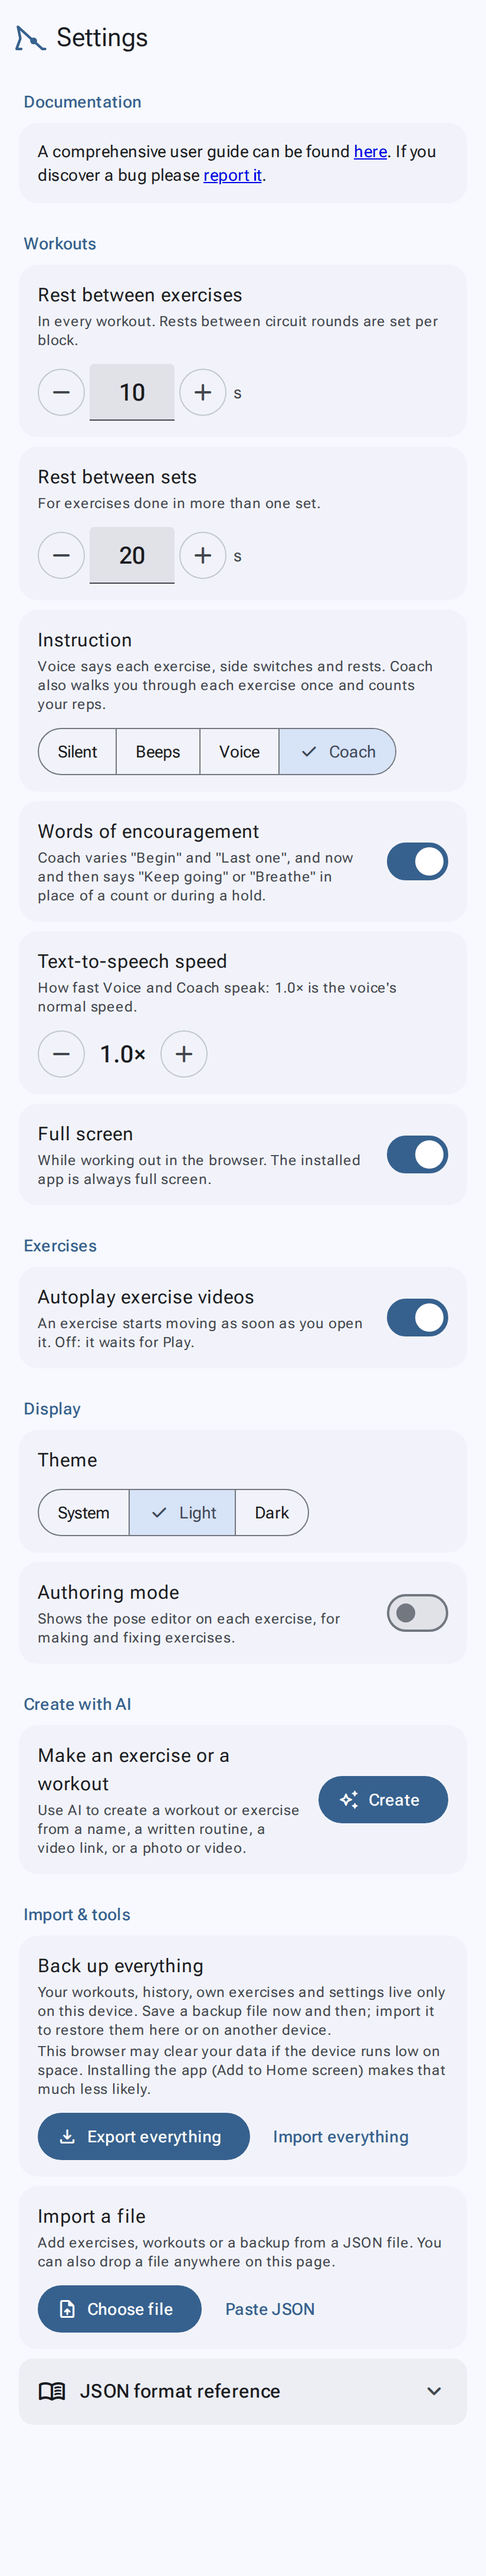
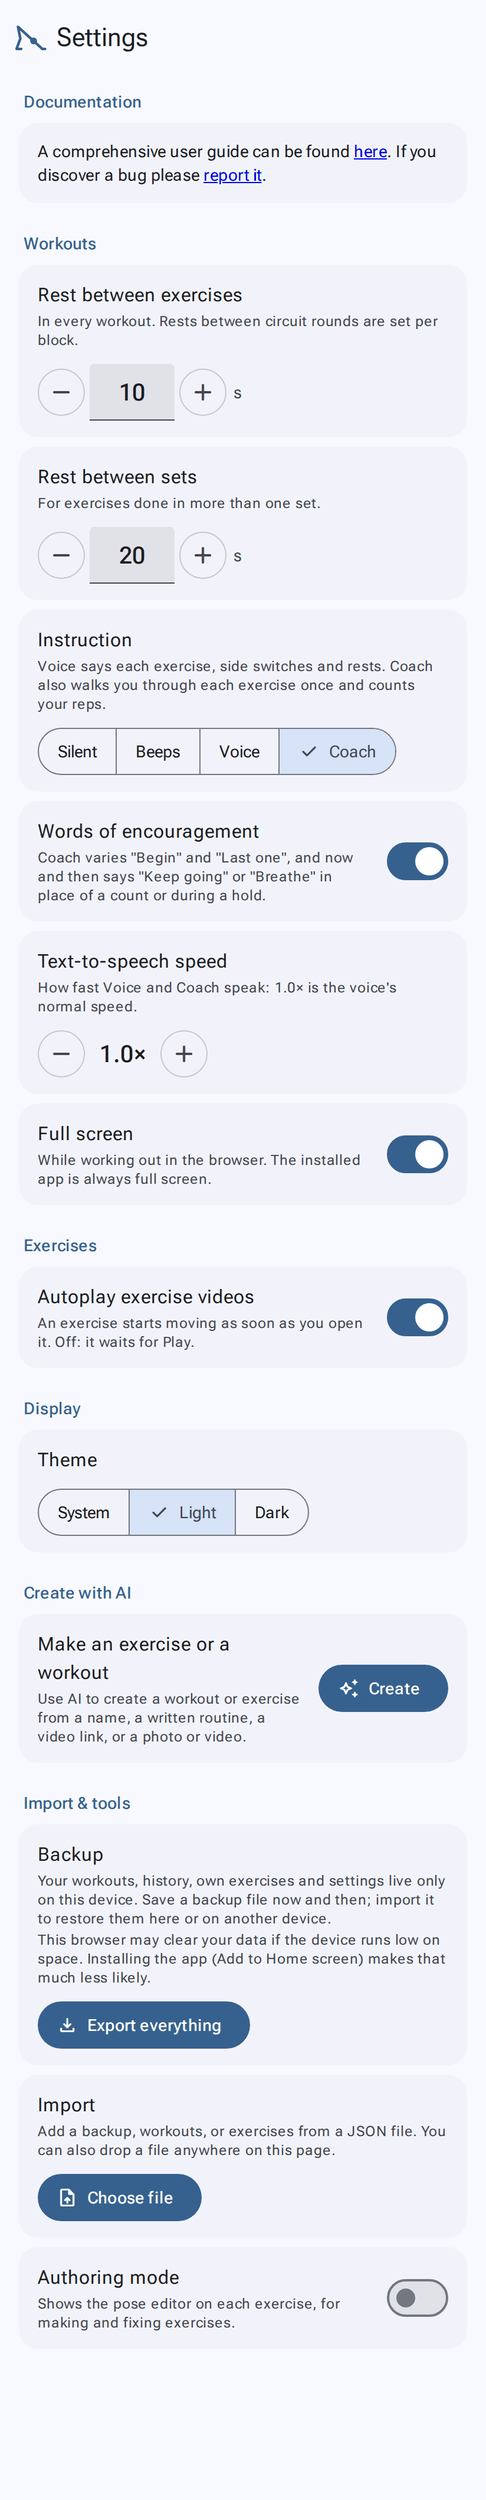
Triage: the stability ball stands on the floor; Settings Import & tools tidied
- The ball is drawn down to the floor line (7 below the floor the body rests on, for the feet's thickness), its top
  still where the body rests on it; it hovered 7 px.
- Settings: Backup (Export everything), Import (Choose file: a backup, workouts, or exercises); Import everything
  and Paste JSON removed (the paste dialog with them); Authoring mode moved from Display to Import & tools, above
  the JSON format reference, which now shows only in Authoring mode.
- e2e: settings_tools.py; balls_ring checks the ball on the floor. Wiki, HANDOFF, screenshots.

Claude-Session: https://claude.ai/code/session_0133kyx5MPf8aRU2sQwm2BG7

diff --git a/src/body.html b/src/body.html
@@ -74,8 +74,6 @@
         <h2 class="title-small settings-title" id="setDisplayTitle">Display</h2>
         <div class="setting"><span class="txt"><span class="body-large">Theme</span></span>
           <div class="segmented" id="setTheme" role="group" aria-label="Theme"></div></div>
-        <label class="setting"><span class="txt"><span class="body-large">Authoring mode</span><span class="body-small muted">Shows the pose editor on each exercise, for making and fixing exercises.</span></span>
-          <input type="checkbox" class="switch" id="setAuthoring"></label>
       </section>
       <section class="settings-group" aria-labelledby="setAiTitle">
         <h2 class="title-small settings-title" id="setAiTitle">Create with AI</h2>
@@ -84,16 +82,16 @@
       </section>
       <section class="settings-group" aria-labelledby="setToolsTitle">
         <h2 class="title-small settings-title" id="setToolsTitle">Import &amp; tools</h2>
-        <div class="setting"><span class="txt"><span class="body-large">Back up everything</span><span class="body-small muted">Your workouts, history, own exercises and settings live only on this device. Save a backup file now and then; import it to restore them here or on another device.</span>
+        <div class="setting"><span class="txt"><span class="body-large">Backup</span><span class="body-small muted">Your workouts, history, own exercises and settings live only on this device. Save a backup file now and then; import it to restore them here or on another device.</span>
             <span class="body-small muted" id="persistNote"></span></span>
-          <span class="row"><button class="btn filled stateful" data-act="backup"><span class="icon">download</span>Export everything</button>
-            <button class="btn text stateful" data-act="import">Import everything</button></span></div>
-        <div class="setting"><span class="txt"><span class="body-large">Import a file</span><span class="body-small muted">Add exercises, workouts or a backup from a JSON file. You can also drop a file anywhere on this page.</span></span>
-          <span class="row"><button class="btn filled stateful" data-act="import"><span class="icon">upload_file</span>Choose file</button>
-            <button class="btn text stateful" data-act="paste">Paste JSON</button></span></div>
+          <button class="btn filled stateful" data-act="backup"><span class="icon">download</span>Export everything</button></div>
+        <div class="setting"><span class="txt"><span class="body-large">Import</span><span class="body-small muted">Add a backup, workouts, or exercises from a JSON file. You can also drop a file anywhere on this page.</span></span>
+          <button class="btn filled stateful" data-act="import"><span class="icon">upload_file</span>Choose file</button></div>
         <div class="setting authoring-only"><span class="txt"><span class="body-large">Export your exercises</span><span class="body-small muted">The JSON for everything in My exercises, to share it or edit it elsewhere.</span></span>
           <button class="btn tonal stateful" data-act="exportAll"><span class="icon">data_object</span>Show JSON</button></div>
-        <details class="card format-card"><summary class="stateful"><span class="icon">menu_book</span><span class="title-medium">JSON format reference</span><span class="icon chev">expand_more</span></summary>
+        <label class="setting"><span class="txt"><span class="body-large">Authoring mode</span><span class="body-small muted">Shows the pose editor on each exercise, for making and fixing exercises.</span></span>
+          <input type="checkbox" class="switch" id="setAuthoring"></label>
+        <details class="card format-card authoring-only"><summary class="stateful"><span class="icon">menu_book</span><span class="title-medium">JSON format reference</span><span class="icon chev">expand_more</span></summary>
           <div class="body body-small" id="formatRef"></div></details>
       </section>
     </section>
@@ -246,11 +244,6 @@
   </nav>
 </div>
 
-<dialog id="pasteDialog" aria-labelledby="pasteTitle">
-  <h2 class="headline-small" id="pasteTitle">Paste JSON</h2>
-  <textarea id="pasteArea" spellcheck="false" placeholder='{ "version": 2, "id": "u-my-exercise", "name": "...", "keyframes": [ ... ] }'></textarea>
-  <div class="actions"><button class="btn text stateful" data-close>Cancel</button><button class="btn filled stateful" id="pasteImport">Import</button></div>
-</dialog>
 <dialog id="jsonDialog" aria-labelledby="jsonTitle">
   <h2 class="headline-small" id="jsonTitle">JSON</h2>
   <textarea id="jsonArea" spellcheck="false" readonly></textarea>

diff --git a/src/app/5-main.js b/src/app/5-main.js
@@ -446,11 +446,6 @@ $('#search').addEventListener('input', e => { E.q = e.target.value; renderExplor
 $('#groupColl').addEventListener('change', e => { setPref(GROUP_KEY, e.target.checked ? 'on' : 'off'); renderExplore(); });
 $('#clearSearch').addEventListener('click', () => { E.q = ''; $('#search').value = ''; renderExplore(); $('#search').focus(); });
 $('#fileInput').addEventListener('change', e => { importFiles([...e.target.files]); e.target.value = ''; });
-$('#pasteImport').addEventListener('click', () => {
-  const text = $('#pasteArea').value.trim();
-  if (!text) { snack('Paste some JSON first.'); return; }
-  if (importAndShow([[text, '']])) $('#pasteDialog').close();
-});
 document.querySelectorAll('dialog [data-close]').forEach(b => b.addEventListener('click', () => b.closest('dialog').close()));
 $('#copyJson').addEventListener('click', () => copyText($('#jsonArea').value, 'Copied'));
 // one click handler for everything inside the app
@@ -465,7 +460,6 @@ document.querySelector('.shell').addEventListener('click', e => {
   else if (d.del) removeSaved(d.del);
   else if (d.act === 'clearFilters') { Object.assign(E, { coll: 'All', type: 'All', equip: 'Any', q: '' }); $('#search').value = ''; renderExplore(); }
   else if (d.act === 'import') $('#fileInput').click();
-  else if (d.act === 'paste') { $('#pasteArea').value = ''; $('#pasteDialog').showModal(); }
   else if (d.act === 'exportAll') showJson('Your exercises', JSON.stringify({ format: 'nstructr/exercise', version: FILE_VERSION, exercises: S.lib.items }, null, 2));
   else if (d.act === 'edPrev' || d.act === 'edNext') { setPlaying(false); jumpTo(S.idx + (d.act === 'edNext' ? 1 : -1)); }
   else if (d.act === 'edRevertStep') revertStep();

diff --git a/src/core.js b/src/core.js
@@ -190,7 +190,9 @@ function chairGrip() {
 function surfaceShapes(sup, yaw) {
   const s = Math.sin(yaw * D2R), c = Math.cos(yaw * D2R), sx = (x, z) => CX + z * s - x * c;
   return (sup || []).map(k => {
-    if (k.type === 'ball') { const c = sx(k.cx, k.cz), cy = FLOOR - k.r, r = k.r;
+    // (the floor line is drawn 7 below the floor the body rests on, for the feet's thickness: the ball reaches it, its top
+    // where the body rests on it)
+    if (k.type === 'ball') { const c = sx(k.cx, k.cz), r = k.r + 3.5, cy = FLOOR + 7 - r;
       return { solid: true, ball: true, d: `M${c - r} ${cy}a${r} ${r} 0 1 0 ${2 * r} 0a${r} ${r} 0 1 0 ${-2 * r} 0Z`, x0: c - r, x1: c + r }; }
     const xs = [sx(k.x0, k.z0), sx(k.x1, k.z0), sx(k.x0, k.z1), sx(k.x1, k.z1)];
     const a = Math.min(...xs), b = Math.max(...xs), top = FLOOR - k.h, f = FLOOR + 7;

diff --git a/tools/e2e/settings_tools.py b/tools/e2e/settings_tools.py
@@ -1,0 +1,21 @@
+import asyncio, os
+# point at a served build, e.g.  python3 -m http.server 8000 -d _site
+URL = os.environ.get('NSTRUCTR_URL', 'http://localhost:8000/nstructr.html')
+from playwright.async_api import async_playwright
+# Settings > Import & tools: Backup (Export everything), Import (Choose file: a backup, workouts, or exercises), then
+# Authoring mode; with it on, Export your exercises and the JSON format reference show, off they're hidden.
+ROWS = "[...document.querySelectorAll('#view-settings section[aria-labelledby=setToolsTitle] > *')].filter(x => x.offsetParent !== null).map(x => (x.querySelector('.body-large, .title-medium, h2') || x).textContent.trim())"
+async def main():
+    async with async_playwright() as p:
+        b = await p.chromium.launch(); errs = []
+        pg = await b.new_page(viewport={'width': 360, 'height': 800}); pg.on('pageerror', lambda e: errs.append(str(e)))
+        await pg.goto(URL + '#/settings', wait_until='domcontentloaded'); await pg.wait_for_timeout(500)
+        print('authoring off           ', await pg.evaluate(ROWS))
+        print('buttons                 ', await pg.evaluate("[...document.querySelectorAll('#view-settings section[aria-labelledby=setToolsTitle] button')].filter(x => x.offsetParent !== null).map(x => x.textContent.replace(/^(download|upload_file|data_object)/, ''))"))
+        print('import text             ', await pg.evaluate("[...document.querySelectorAll('#view-settings .body-large')].find(x => x.textContent === 'Import').nextElementSibling.textContent"))
+        await pg.evaluate("$('#setAuthoring').click()")
+        await pg.wait_for_timeout(200)
+        print('authoring on            ', await pg.evaluate(ROWS))
+        print('Display has no authoring', await pg.evaluate("!document.querySelector('section[aria-labelledby=setDisplayTitle] #setAuthoring')"))
+        print('errors', errs); await b.close()
+asyncio.run(main())

diff --git a/tools/e2e/balls_ring.py b/tools/e2e/balls_ring.py
@@ -19,5 +19,8 @@ async def main():
         for id, pt, i in [('ball-seated-march', 'pelvis', 0), ('ball-bridge', 'ankleL', 0), ('ball-bridge', 'ankleL', 1)]:
             await pg.goto(URL + '#/play/' + id, wait_until='domcontentloaded'); await pg.wait_for_timeout(400)
             print(f'{id:22} step {i} {pt} to the ball', await pg.evaluate(f"(() => {{ const r = S.resolved[{i}]; SUPPORTS = S.resolved.supports; const P = fkAt(r.pose, S.seg, place(r.pose, S.seg, r.rule)); return Math.round(P.{pt}.y - supportAt(P.{pt})); }})()"), 'px')
+        # the ball stands on the floor line (drawn 7 below where the body rests), its top where the body rests on it
+        await pg.goto(URL + '#/play/ball-seated-march', wait_until='domcontentloaded'); await pg.wait_for_timeout(400)
+        print('ball bottom, top         ', await pg.evaluate("(() => { const r = $('#scene .surface.ball').getBBox(), f = +$('#scene .floor-line').getAttribute('y1'); return [Math.round(r.y + r.height - f), Math.round(FLOOR - r.y)]; })()"), '<- [0, 2r = 96]')
         print('errors', errs); await b.close()
 asyncio.run(main())

diff --git a/wiki/Settings.md b/wiki/Settings.md
@@ -48,17 +48,15 @@ phone is set to reduce motion, exercises wait for Play either way.)
 ### Theme
 **System** (follows your phone), **Light** or **Dark**.
 
-### Authoring mode
-Adds the pose editor and JSON views, for making and fixing exercises. See
-[Editing exercises](Editing-exercises.md#changing-the-poses-authoring-mode).
-
 ## Create with AI
 
 **Create** opens [Create with AI](Create-with-AI.md). The AI app is chosen there, and remembered.
 
 ## Import & tools
 
-- **Back up everything**: Export everything / Import everything. See [Backups](Sharing-and-backups.md#back-up-everything).
-- **Import a file**: Choose file / Paste JSON.
+- **Backup**: Export everything. See [Backups](Sharing-and-backups.md#back-up-everything).
+- **Import**: Choose file: a backup, workouts, or exercises (a backup restores everything).
 - **Export your exercises** (Authoring mode): the JSON of everything in My exercises.
-- **JSON format reference**: the file formats, for people writing exercises by hand.
+- **Authoring mode**: adds the pose editor and JSON views, for making and fixing exercises. See
+  [Editing exercises](Editing-exercises.md#changing-the-poses-authoring-mode).
+- **JSON format reference** (Authoring mode): the file formats, for people writing exercises by hand.

diff --git a/wiki/Sharing-and-backups.md b/wiki/Sharing-and-backups.md
@@ -54,13 +54,13 @@ exercise with the same name, the new one gets its own name, so nothing of yours 
 
 ## Import a file
 
-**Settings → Import & tools → Choose file** (or **Paste JSON**) adds exercises, workouts, or a backup. On a
+**Settings → Import & tools → Import → Choose file** adds a backup, workouts, or exercises. On a
 computer you can also drop a file anywhere on the page.
 
 ## Back up everything
 
 Your data lives only in this browser on this device. **Settings → Import & tools → Export everything** saves one
-file with your workouts, history, your own exercises, bookmarks and settings. **Import everything** restores it,
+file with your workouts, history, your own exercises, bookmarks and settings. Importing it (**Import → Choose file**) restores it,
 here or on another device.
 
 Make a backup now and then, and before clearing your browser's data or changing phones. Installing the app

diff --git a/HANDOFF.md b/HANDOFF.md
@@ -84,7 +84,7 @@ Roadmap step 1 (§13) is **done** apart from going live (item 6 below). What's d
 tap-for-controls overlay with its details on the page below, Authoring mode. See §10.
 
 **Step 2 (installable app + backup) is built and tested on a foldable flip phone** (installed; bottom margin confirmed) (see §13): manifest, icons, service worker, storage
-persistence, Export everything / Import everything, and a Material theme generated from the icon's blue.
+persistence, Backup (Export everything; a backup is imported with Import like any file), and a Material theme generated from the icon's blue.
 Still to do there: test on a flip phone's cover screen as an installed app (Good Lock?).
 
 **Still to do in step 1:** merge to `main`, enable Pages (Settings → Pages → Source: GitHub Actions), confirm

diff --git a/wiki/Troubleshooting.md b/wiki/Troubleshooting.md
@@ -13,7 +13,7 @@ Installing the app avoids both.
 
 **My workouts disappeared.**
 Browsers can clear a website's data when the phone is low on space, or when you clear browsing data. Restore
-your latest backup with **Settings → Import everything**. Installing the app makes this much less likely.
+your latest backup with **Settings → Import → Choose file**. Installing the app makes this much less likely.
 
 **A shared link says it's damaged or incomplete.**
 The link was cut short (some apps shorten long messages). Ask for it again, or ask for the file (**As a file**).

diff --git a/wiki/Editing-exercises.md b/wiki/Editing-exercises.md
@@ -25,7 +25,7 @@ suggest your change for everyone's library: **Share → Submit to library** ([ho
 
 ## Changing the poses (Authoring mode)
 
-Turn on **Authoring mode** in [Settings](Settings.md#authoring-mode) to also get the pose editor: the camera
+Turn on **Authoring mode** in [Settings → Import & tools](Settings.md#import--tools) to also get the pose editor: the camera
 (**Side** or **Front**, or any angle in between), every joint with − / + buttons (hold to repeat; steps of 1°, 5° or
 15°), and the exercise's JSON.
 
